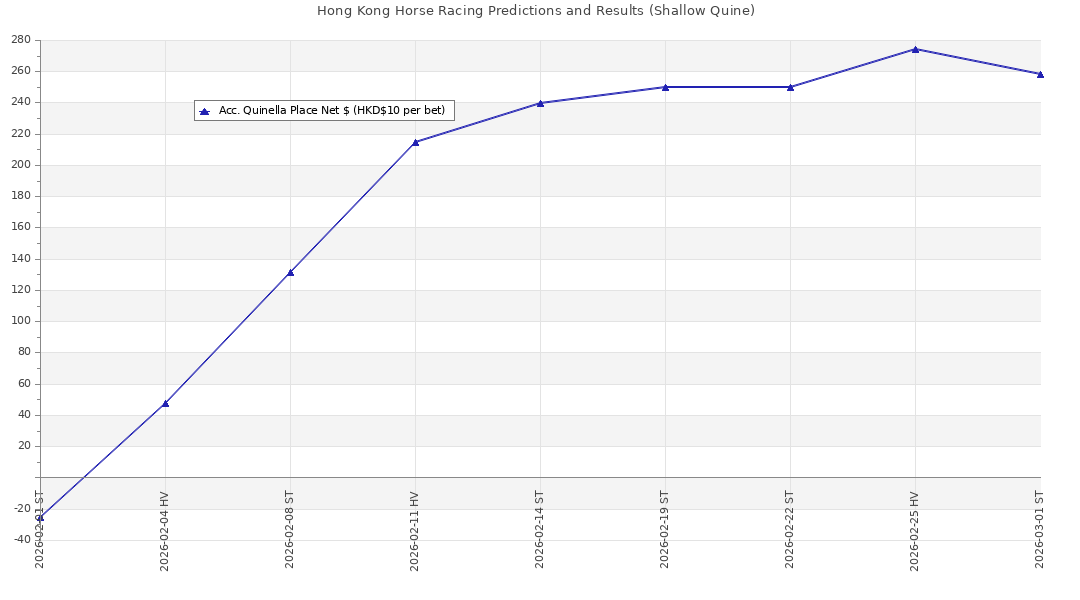
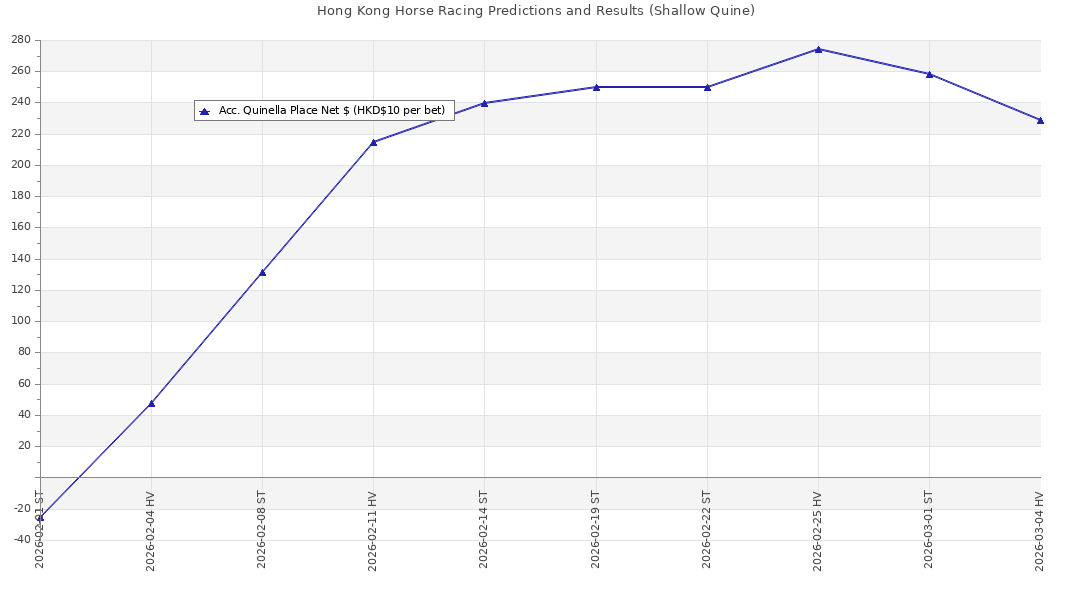
2026-03-04 Predictions

diff --git a/index.html b/index.html
@@ -5,7 +5,7 @@
 <h3>Quinella Place (HKD$10 per bet)</h3>
 
 
-<h4>Generated at HKT 2026-03-02 02:00:48</h4>
+<h4>Generated at HKT 2026-03-04 11:32:13</h4>
 <img src='shallow.jpg'>
 <table border=1>
 <tr><th>RaceDate</th><th>RaceCourse</th><th>RaceNo</th><th>H1HorseNo</th><th>H2HorseNo</th><th>H1Place</th><th>H2Place</th><th>Dividend QP</th><th>Net Balance</th></tr>
@@ -44,9 +44,12 @@
 <tr><td align=center>2026-03-01</td><td align=center>ST</td><td align=center>03</td><td align=center>2</td><td align=center>8</td><td align=center>3</td><td align=center>1</td><td align=right>$24.00</td><td align=right>$278.5</td></tr>
 <tr><td align=center>2026-03-01</td><td align=center>ST</td><td align=center>07</td><td align=center>1</td><td align=center>6</td><td align=center>1</td><td align=center>3</td><td align=right>$0</td><td align=right>$268.5</td></tr>
 <tr><td align=center>2026-03-01</td><td align=center>ST</td><td align=center>08</td><td align=center>4</td><td align=center>6</td><td align=center>2</td><td align=center>4</td><td align=right>$0</td><td align=right>$258.5</td></tr>
+<tr><td align=center>2026-03-04</td><td align=center>HV</td><td align=center>01</td><td align=center>4</td><td align=center>9</td><td align=center></td><td align=center></td><td align=right>$0</td><td align=right>$248.5</td></tr>
+<tr><td align=center>2026-03-04</td><td align=center>HV</td><td align=center>05</td><td align=center>5</td><td align=center>6</td><td align=center></td><td align=center></td><td align=right>$0</td><td align=right>$238.5</td></tr>
+<tr><td align=center>2026-03-04</td><td align=center>HV</td><td align=center>06</td><td align=center>2</td><td align=center>7</td><td align=center></td><td align=center></td><td align=right>$0</td><td align=right>$228.5</td></tr>
 </table>
 <table border=1>
 <tr><th>Num. QP Bet</th><th>Num. QP Win</th><th>QP Win Acc.</th><th>Total Bet $</th><th>QP Win $</th><th>Net $</th></tr>
-<tr><td>35</td><td>16</td><td>0.457</td><td align=right>$350</td><td align=right>$608.5</td><td align=right>$258.5</td></tr>
+<tr><td>38</td><td>16</td><td>0.421</td><td align=right>$380</td><td align=right>$608.5</td><td align=right>$228.5</td></tr>
 </table>
 </html>
